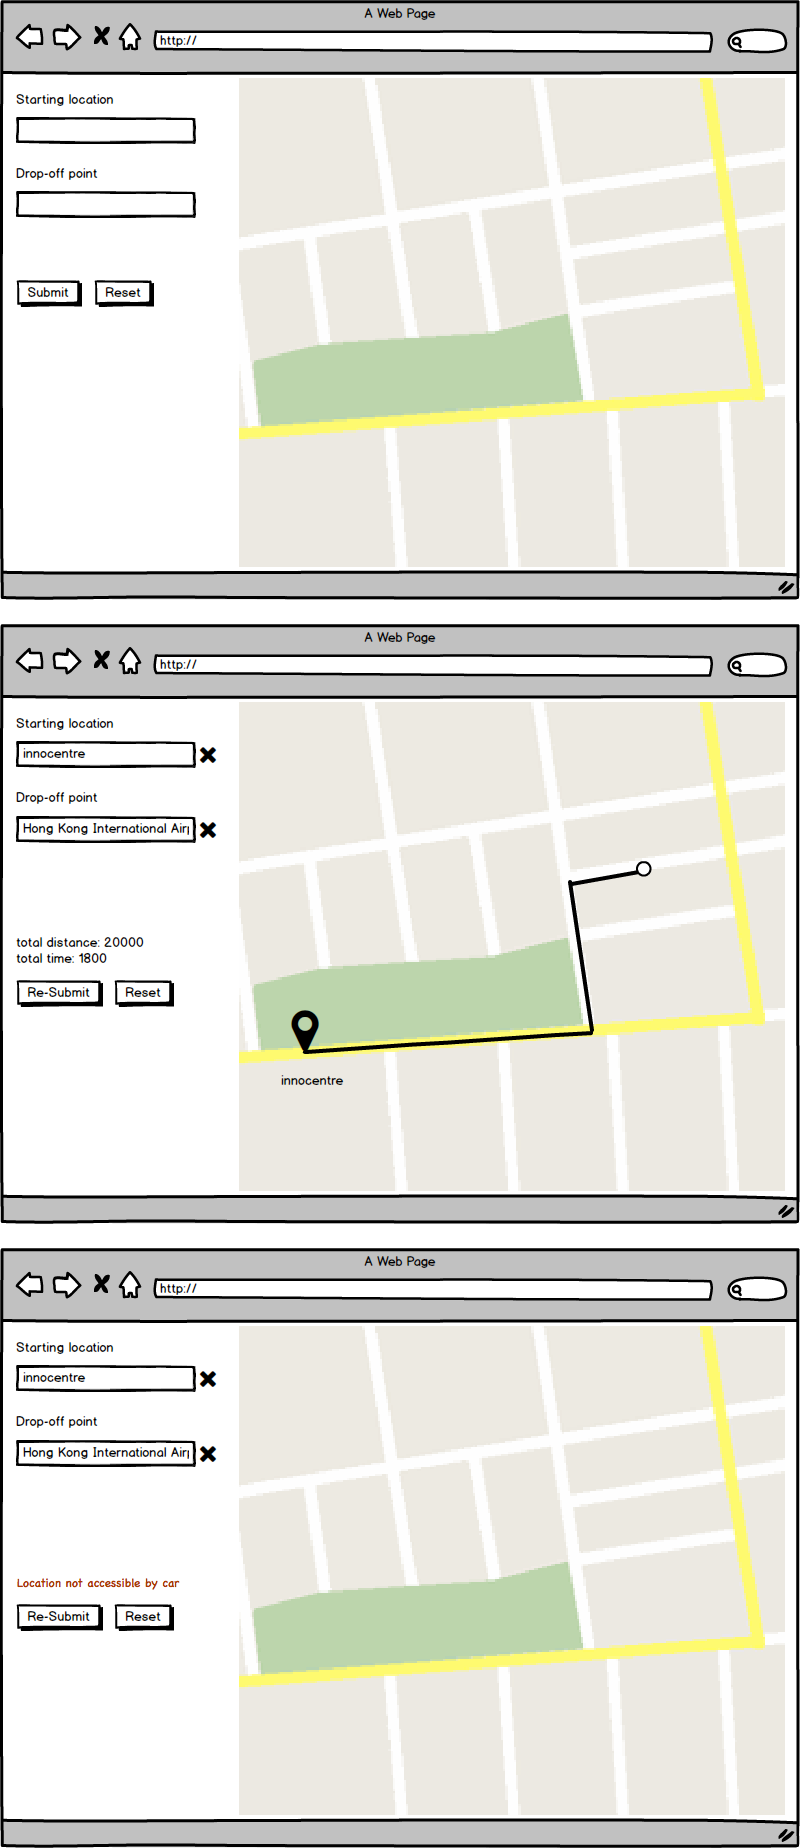
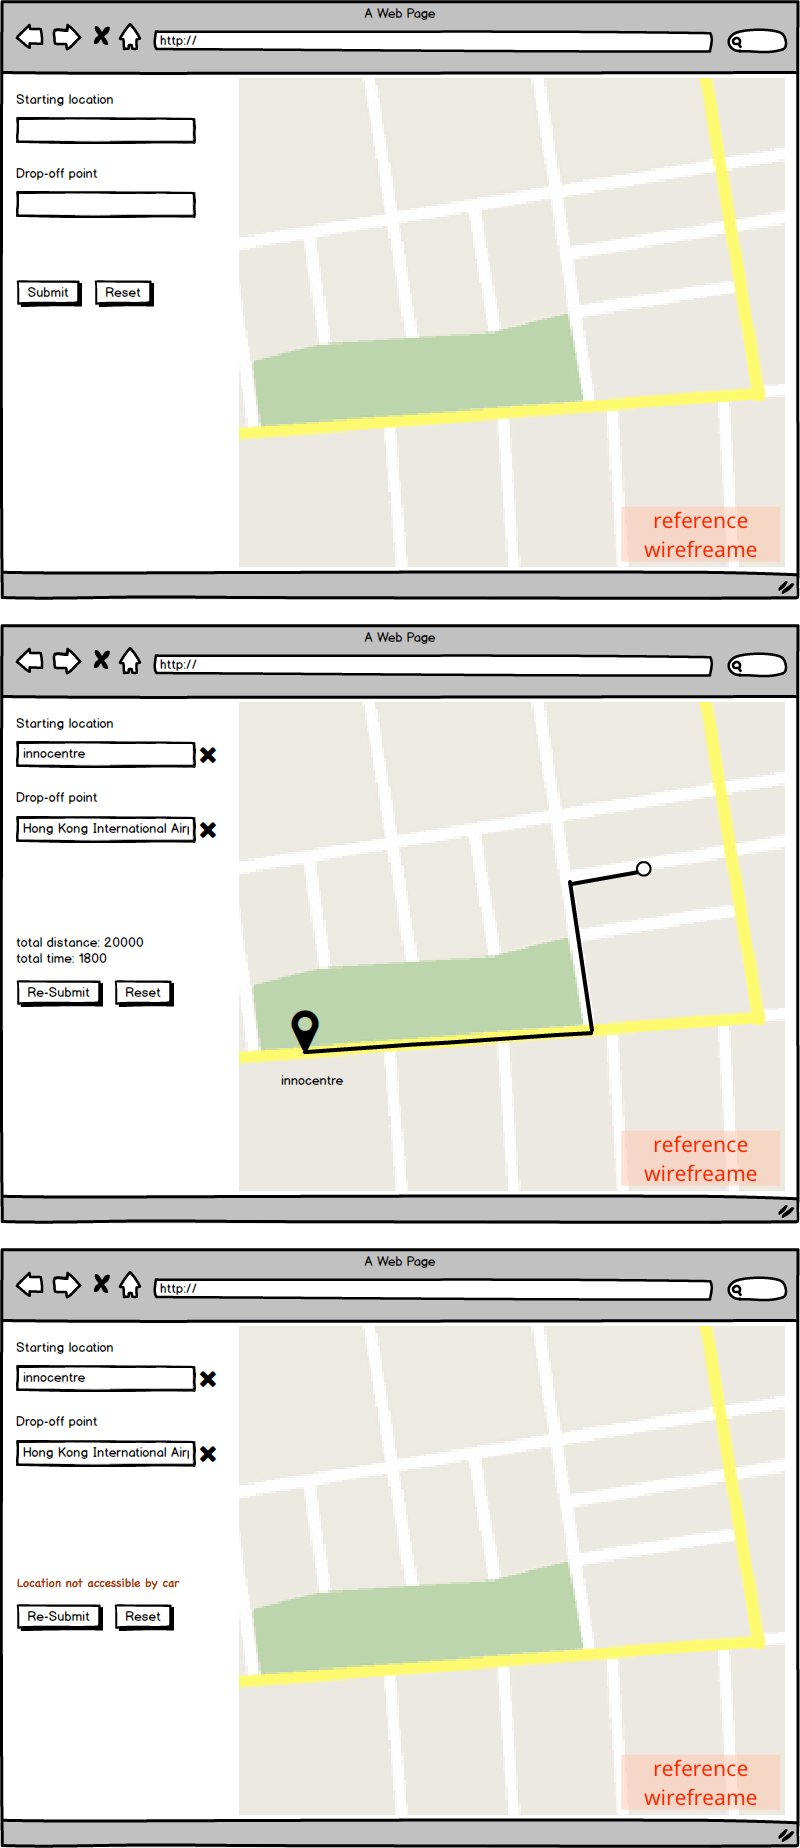
UPT: Frontend wireframe

Changed region(s): [[0.75, 0.9253, 1.0, 0.987], [0.75, 0.586, 1.0, 0.6477], [0.75, 0.2468, 1.0, 0.3084]]

diff --git a/frontend.md b/frontend.md
@@ -39,7 +39,7 @@
 
 ## Wireframes
 
-We include wireframes as a reference for the UI of your application. You are welcome to be creative with UI/UX and additional features.
+We include wireframes only as a reference for the UI of your application. Please be creative with UI/UX and additional features.
 
 ![Wireframe](assets/llm-frontend-engineer-wireframe.png)
 
